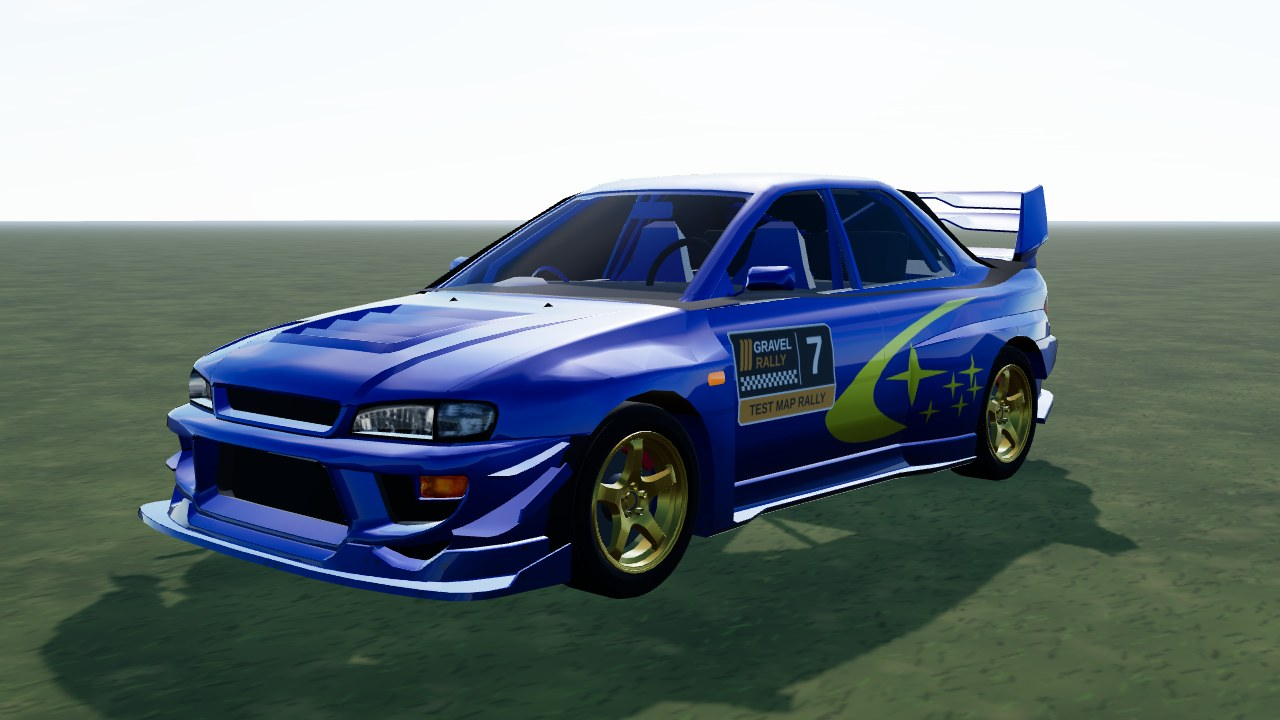
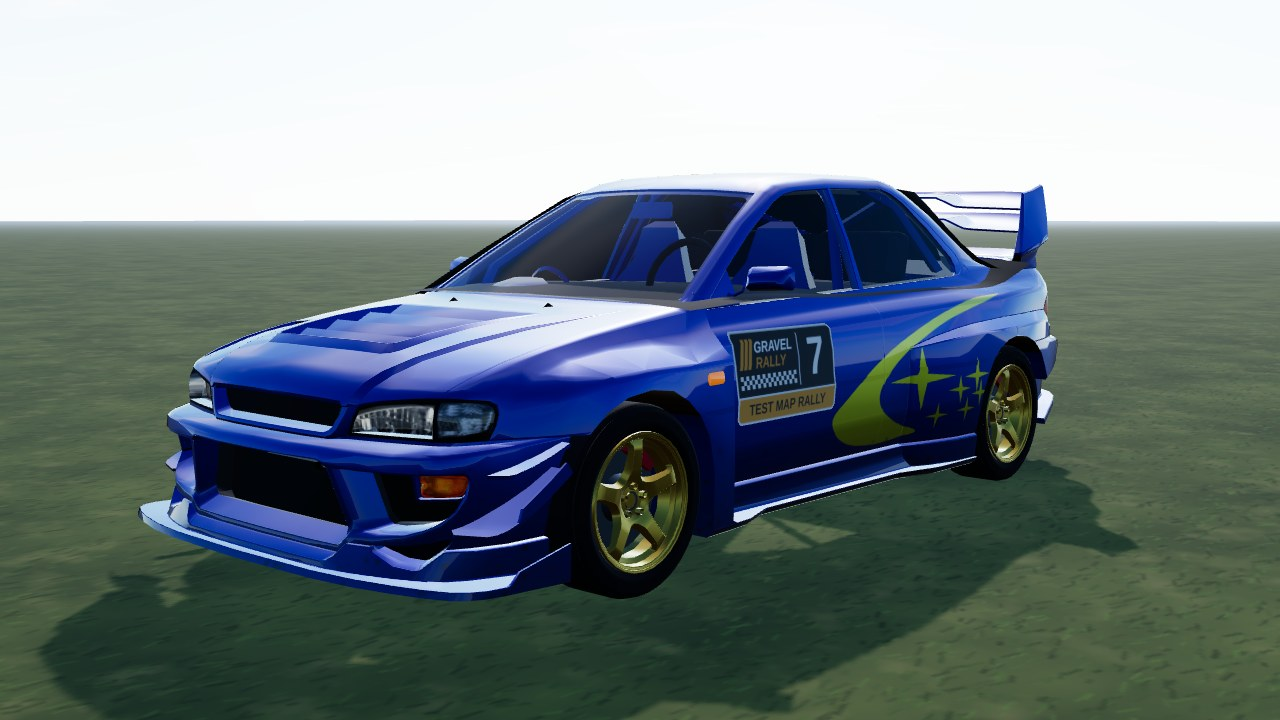
22B: move the side graphic 5 cm back and 2 cm down
- retake screenshots

Changed region(s): [[0.625, 0.3972, 0.7812, 0.6111], [0.6562, 0.6111, 0.6875, 0.6417]]

diff --git a/src/games/rally/cars/subie-22b/livery.ts b/src/games/rally/cars/subie-22b/livery.ts
@@ -14,14 +14,14 @@ const A = source.atlas;
 const { K, B, CH, Painter, sidePx, frontPx, rearPx } = atlasKit(A);
 
 const YELLOW = '#e8f03a';
-/** Vertical extent on the body side (m): 18 cm above the body's lower edge up to 2 cm below the window sills. */
-const Y_BOTTOM = 0.31;
-const Y_TOP = 0.88;
+/** Vertical extent on the body side (m): 16 cm above the body's lower edge up to 4 cm below the window sills. */
+const Y_BOTTOM = 0.29;
+const Y_TOP = 0.86;
 /** Reference picture rows spanned by the graphic (crescent tip to lower end). */
 const REF_Y = [121, 222];
 const PX = (Y_TOP - Y_BOTTOM) / (REF_Y[1] - REF_Y[0]);
 /** Rear end of the graphic (z, m), over the rear wheel arch; it grows forward from there. */
-const REAR_Z = -1.457;
+const REAR_Z = -1.507;
 /** Reference picture columns spanned by the graphic (crescent bulge to tip). */
 const REF_X = [168, 422];
 
